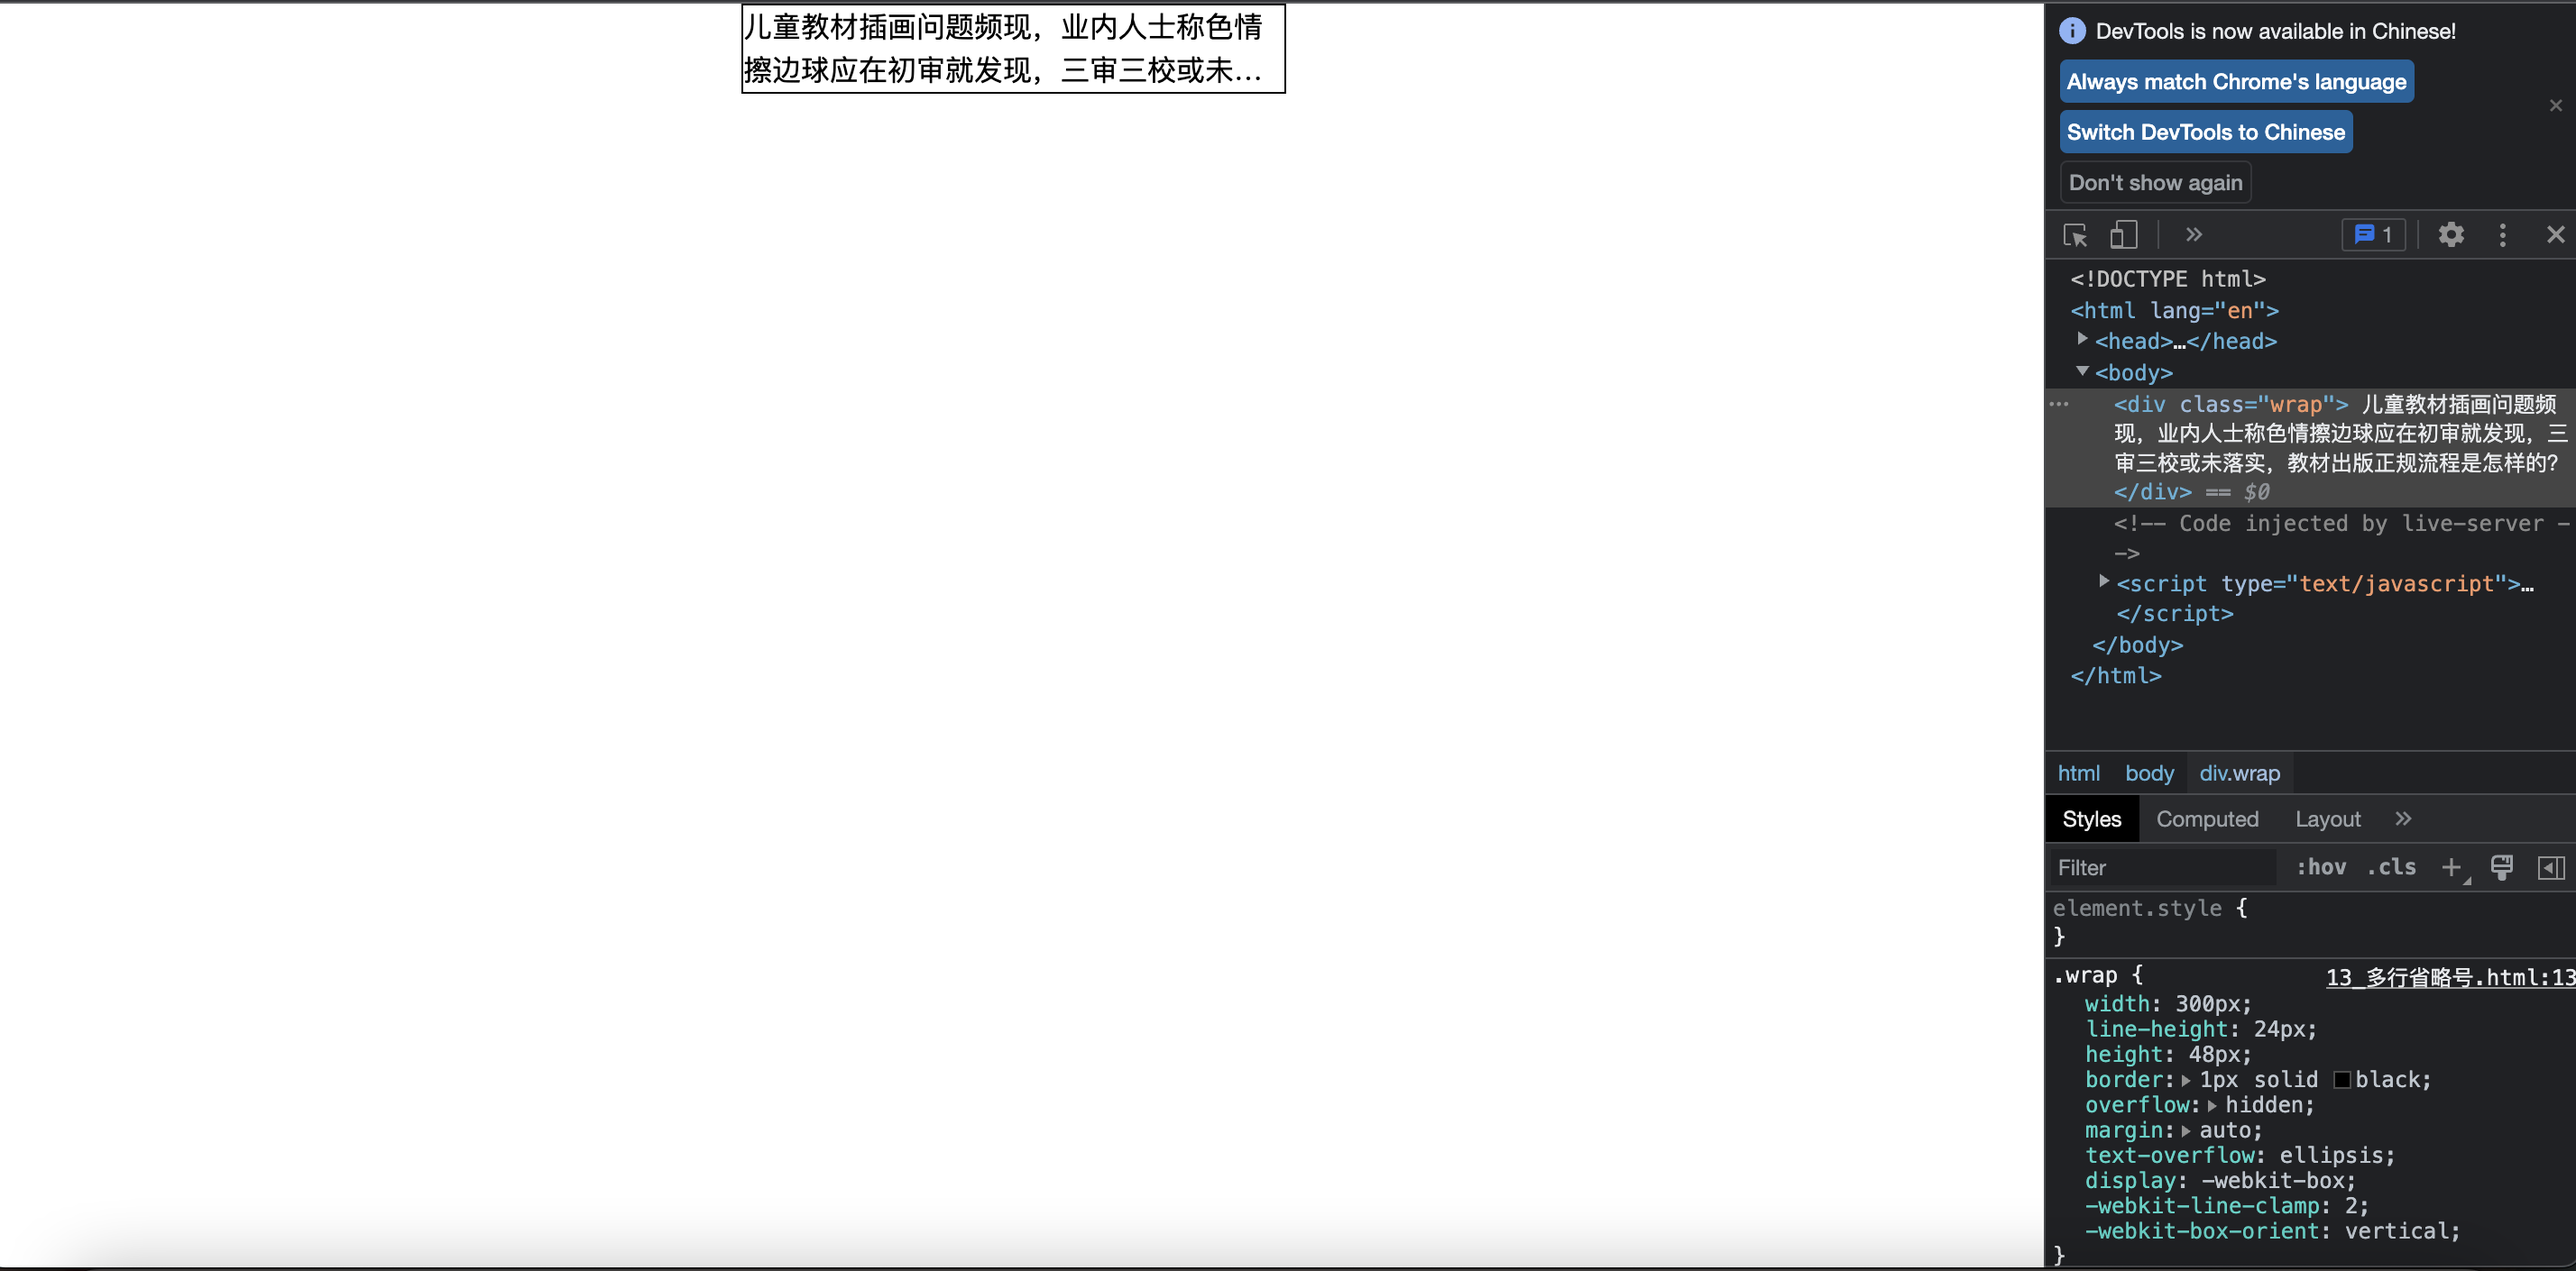
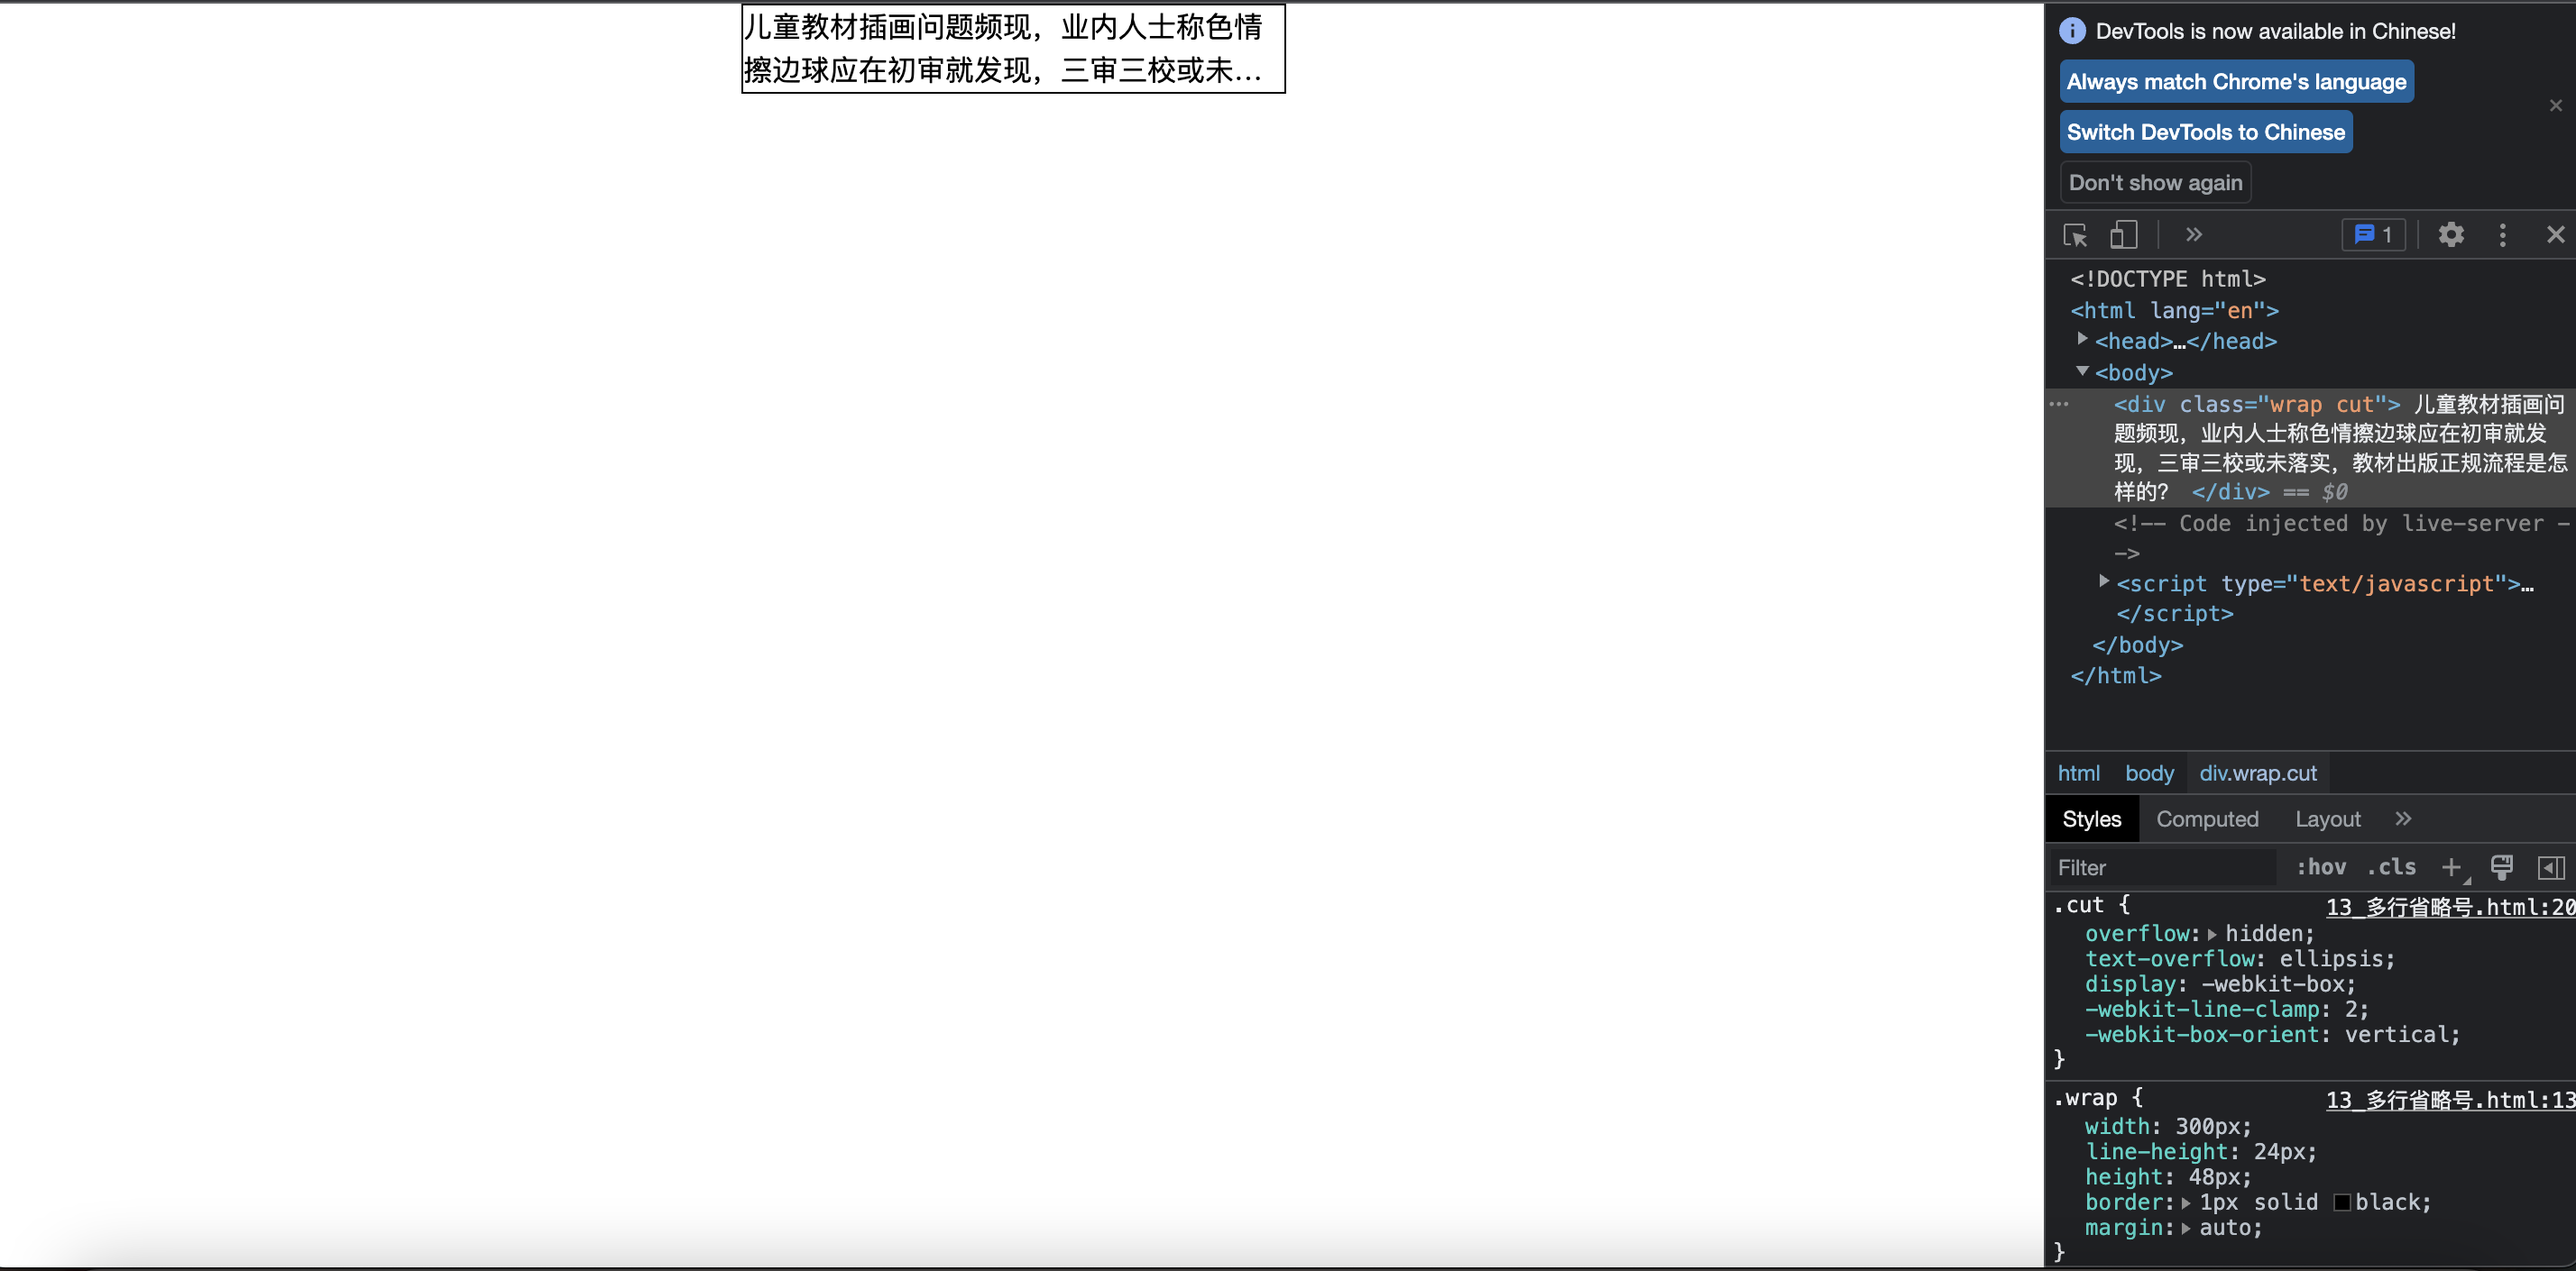
单多行文本溢出省略号

Changed region(s): [[0.8102, 0.6865, 1.0, 0.9986], [0.8102, 0.3121, 0.9972, 0.4057]]

diff --git a/_posts/EverydayLearn/2022-05-29-单多行文本溢出省略号.md b/_posts/EverydayLearn/2022-05-29-单多行文本溢出省略号.md
@@ -48,7 +48,7 @@ tags: [每日一题, css]
         </style>
     </head>
     <body>
-        <div class="wrap">
+        <div class="wrap cut">
             儿童教材插画问题频现，业内人士称色情擦边球应在初审就发现，三审三校或未落实，教材出版正规流程是怎样的？
         </div>
     </body>
